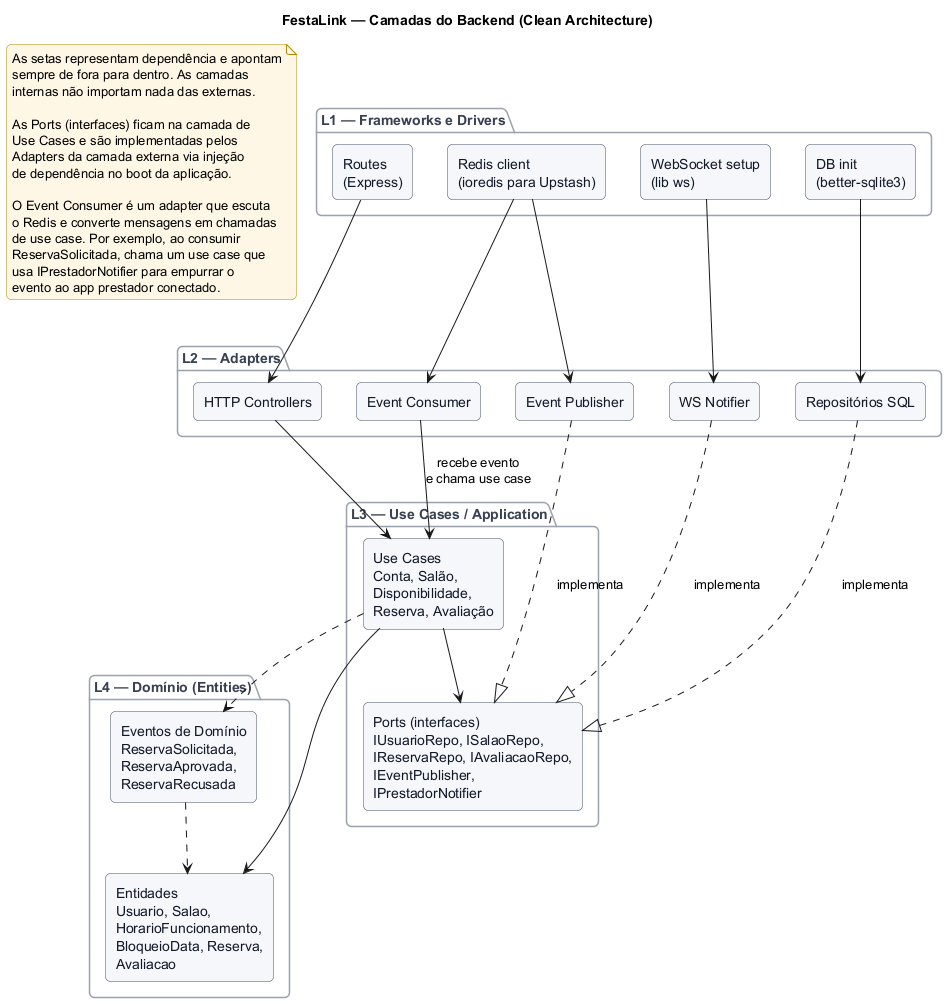
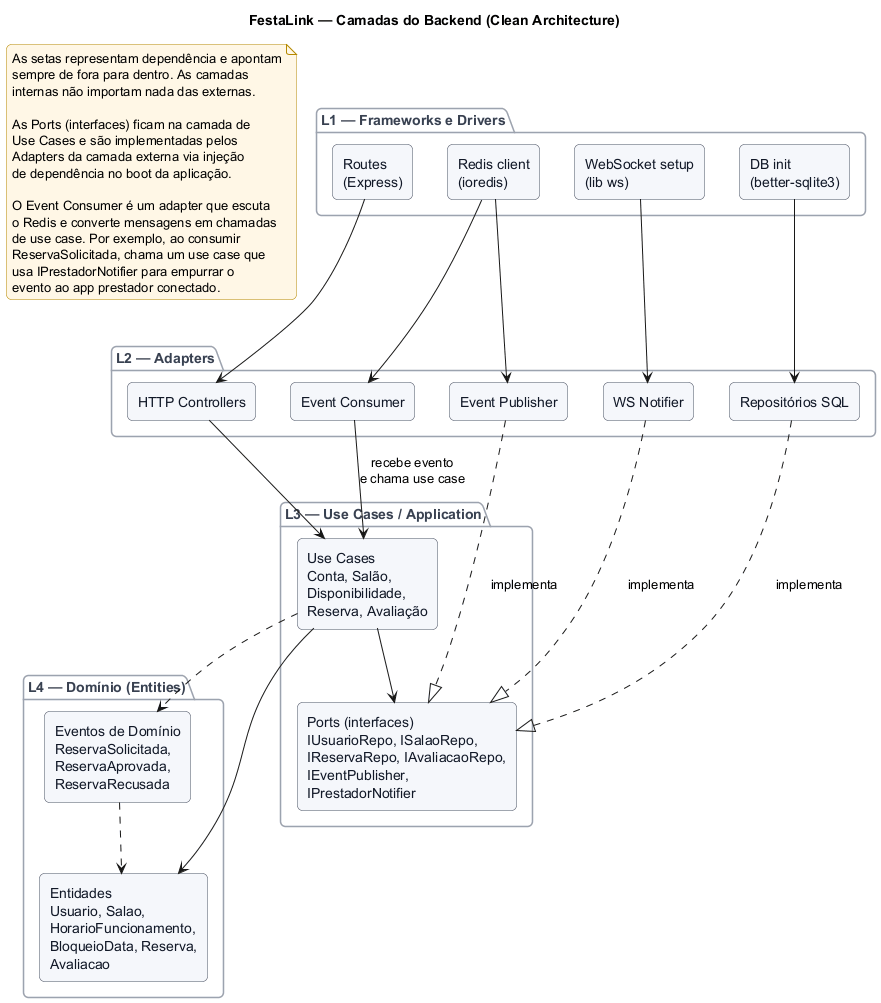
docs: ajusta referencias de redis (containerizado em vez de upstash)

diff --git a/docs/arquitetura.md b/docs/arquitetura.md
@@ -8,9 +8,9 @@ O sistema é composto por três peças de software internas e um sistema externo
 
 As peças internas são dois aplicativos mobile em Flutter — um para o cliente e outro para o prestador — e um backend em Node.js com Express. O backend serve os dois apps via API REST, mantém o banco em arquivo SQLite local e troca eventos com o canal de mensagens. Os dois apps são executáveis separados: o cliente faz buscas e envia solicitações de reserva, o prestador recebe os pedidos e responde.
 
-O único sistema externo é o Upstash Redis, que atua como middleware orientado a mensagens (MOM). Ele transporta os eventos de domínio publicados pelo backend e os entrega ao consumidor que empurra notificação em tempo real para o app do prestador.
+O sistema depende de um Redis externo que atua como middleware orientado a mensagens (MOM). Para o ambiente de desenvolvimento e demonstração da disciplina, esse Redis é provido por um `docker-compose.yml` que sobe um container dedicado ao projeto, mas qualquer Redis acessível por URL atende. O MOM transporta os eventos de domínio publicados pelo backend e os entrega ao consumidor que empurra notificação em tempo real para o app do prestador.
 
-A comunicação dos apps com o backend é HTTPS com JSON no corpo e JWT no header `Authorization`. O backend conversa com o Upstash via protocolo Redis nativo. Adicionalmente, o app prestador abre uma conexão WebSocket persistente com o backend para receber as notificações de pedido novo sem precisar fazer polling contínuo, atendendo ao princípio de arquitetura orientada a eventos exigido no item 2.2 do enunciado da disciplina.
+A comunicação dos apps com o backend é HTTPS com JSON no corpo e JWT no header `Authorization`. O backend conversa com o Redis via protocolo Redis nativo (`ioredis`). Adicionalmente, o app prestador abre uma conexão WebSocket persistente com o backend para receber as notificações de pedido novo sem precisar fazer polling contínuo, atendendo ao princípio de arquitetura orientada a eventos exigido no item 2.2 do enunciado da disciplina.
 
 ## Por que essa stack
 
@@ -18,7 +18,7 @@ Cada decisão tem uma justificativa simples por trás:
 
 - Node.js + Express, pela familiaridade com JavaScript e por ter ecossistema bem servido para REST e WebSocket no mesmo processo.
 - SQLite em arquivo local, porque o enunciado aceita SQLite e isso elimina dependência externa na primeira sprint.
-- Redis Pub/Sub via Upstash, porque atende ao requisito de MOM sem exigir Docker nem hospedagem própria. O plano gratuito é suficiente para o escopo da disciplina.
+- Redis Pub/Sub como MOM, porque a topologia 1 produtor : 1 consumidor que o sistema precisa casa com pub/sub sem exigir filas, exchanges ou ACKs.
 - Flutter para os dois apps mobile, conforme exigido pelo enunciado.
 - JWT para autenticação, com claim de papel (cliente ou prestador) — simples o bastante para a Sprint 1 e suficiente para demonstrar Clean Architecture no backend.
 
@@ -30,7 +30,7 @@ O primeiro é entre os apps e o backend, via REST sobre HTTPS. Esse é o caminho
 
 O segundo é entre o backend e o app prestador, via WebSocket. O app prestador, ao abrir, estabelece uma conexão persistente com o backend e fica escutando. Quando chega um pedido novo, o backend publica um evento no Redis e um consumer dentro do próprio backend escuta o canal e empurra o evento via WebSocket para o prestador correto.
 
-O terceiro é entre o backend e o Upstash Redis, via protocolo Redis nativo. O backend é produtor e consumidor ao mesmo tempo: publica eventos quando o status de uma reserva muda — `ReservaSolicitada`, `ReservaAprovada`, `ReservaRecusada` — e consome o canal para repassar ao WebSocket. Essa separação é o que torna o sistema event-driven.
+O terceiro é entre o backend e o Redis, via protocolo Redis nativo. O backend é produtor e consumidor ao mesmo tempo: publica eventos quando o status de uma reserva muda — `ReservaSolicitada`, `ReservaAprovada`, `ReservaRecusada` — e consome o canal para repassar ao WebSocket. Essa separação é o que torna o sistema event-driven.
 
 O app cliente reflete mudanças de status (por exemplo, quando o prestador aprova uma reserva) via polling REST com intervalo curto. Esse caminho é aceito explicitamente no item 3.4 do enunciado para o app do cliente.
 
@@ -38,7 +38,7 @@ O app cliente reflete mudanças de status (por exemplo, quando o prestador aprov
 
 O backend segue Clean Architecture em quatro camadas, com a regra de dependência apontando sempre de fora para dentro:
 
-1. Frameworks e drivers, na camada mais externa: Express, lib `ws` para WebSocket, ioredis para conversar com o Upstash, driver SQLite.
+1. Frameworks e drivers, na camada mais externa: Express, lib `ws` para WebSocket, ioredis para conversar com o Redis, driver SQLite.
 2. Adapters: controllers HTTP, repositórios SQL, publisher e consumer de eventos, notificador WebSocket.
 3. Use cases (Application): regras de orquestração (criar reserva, aprovar, postar avaliação, responder avaliação) e portas (interfaces) que os adapters implementam.
 4. Domínio, na camada mais interna: entidades (`Usuario`, `Salao`, `HorarioFuncionamento`, `BloqueioData`, `Reserva`, `Avaliacao`) e eventos de domínio.
